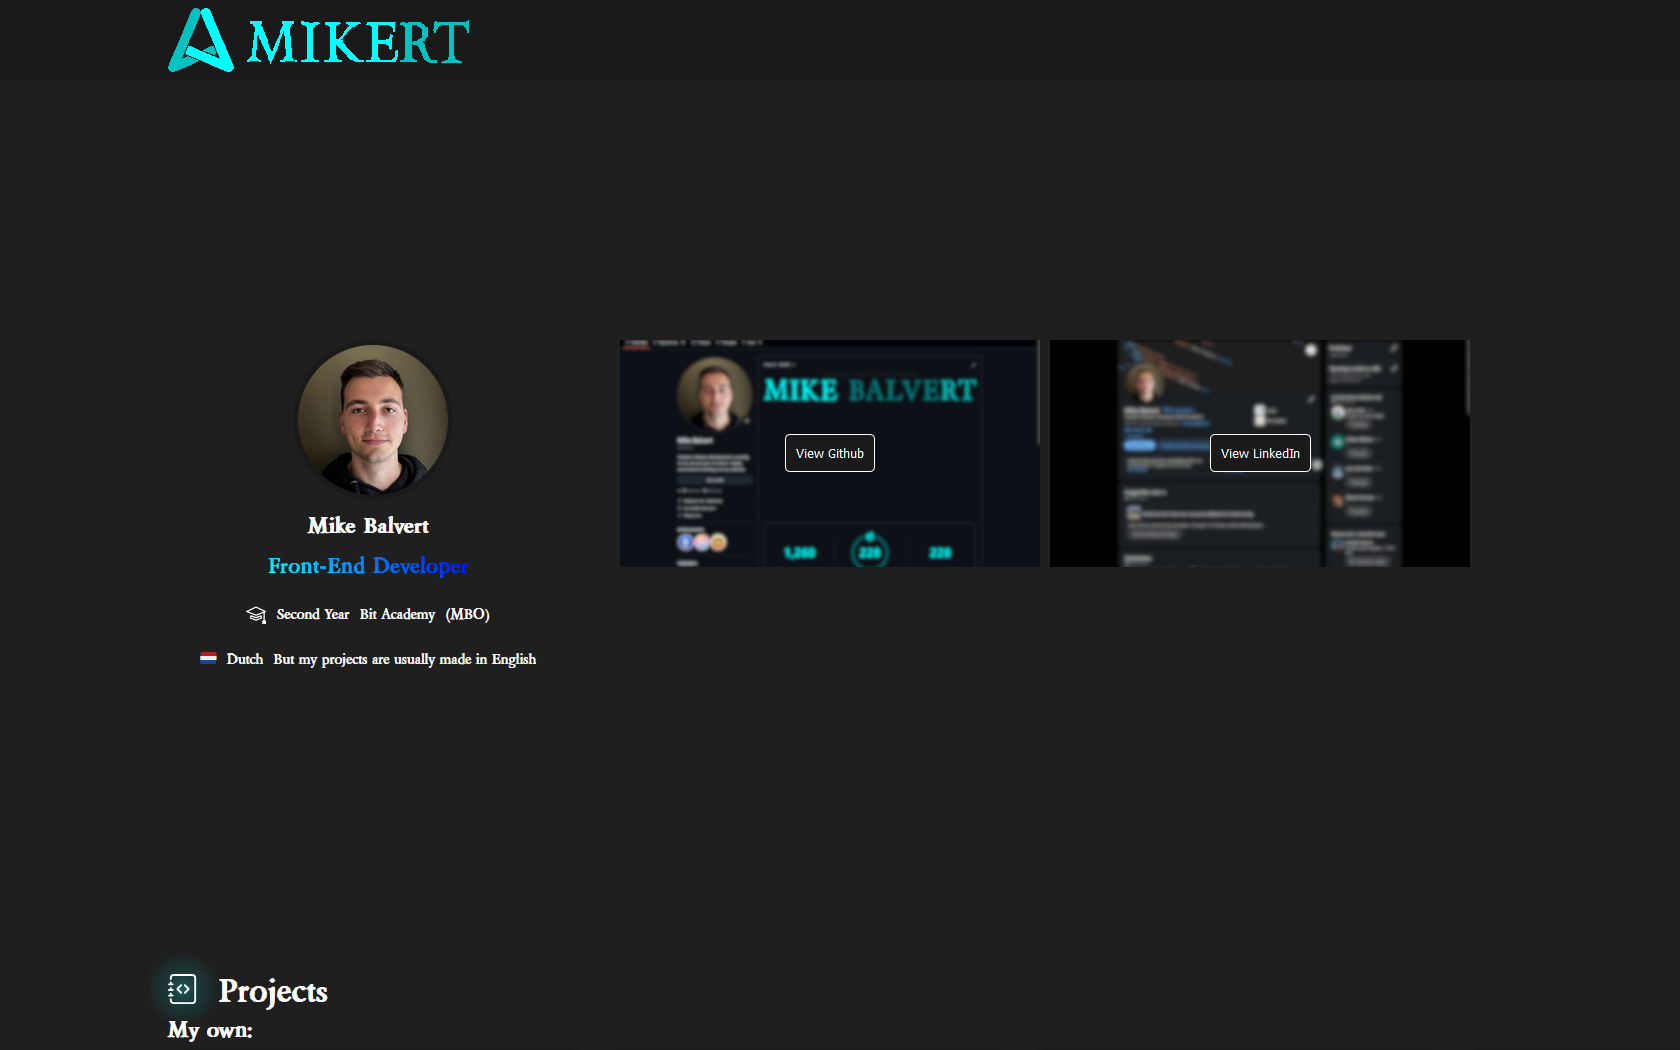
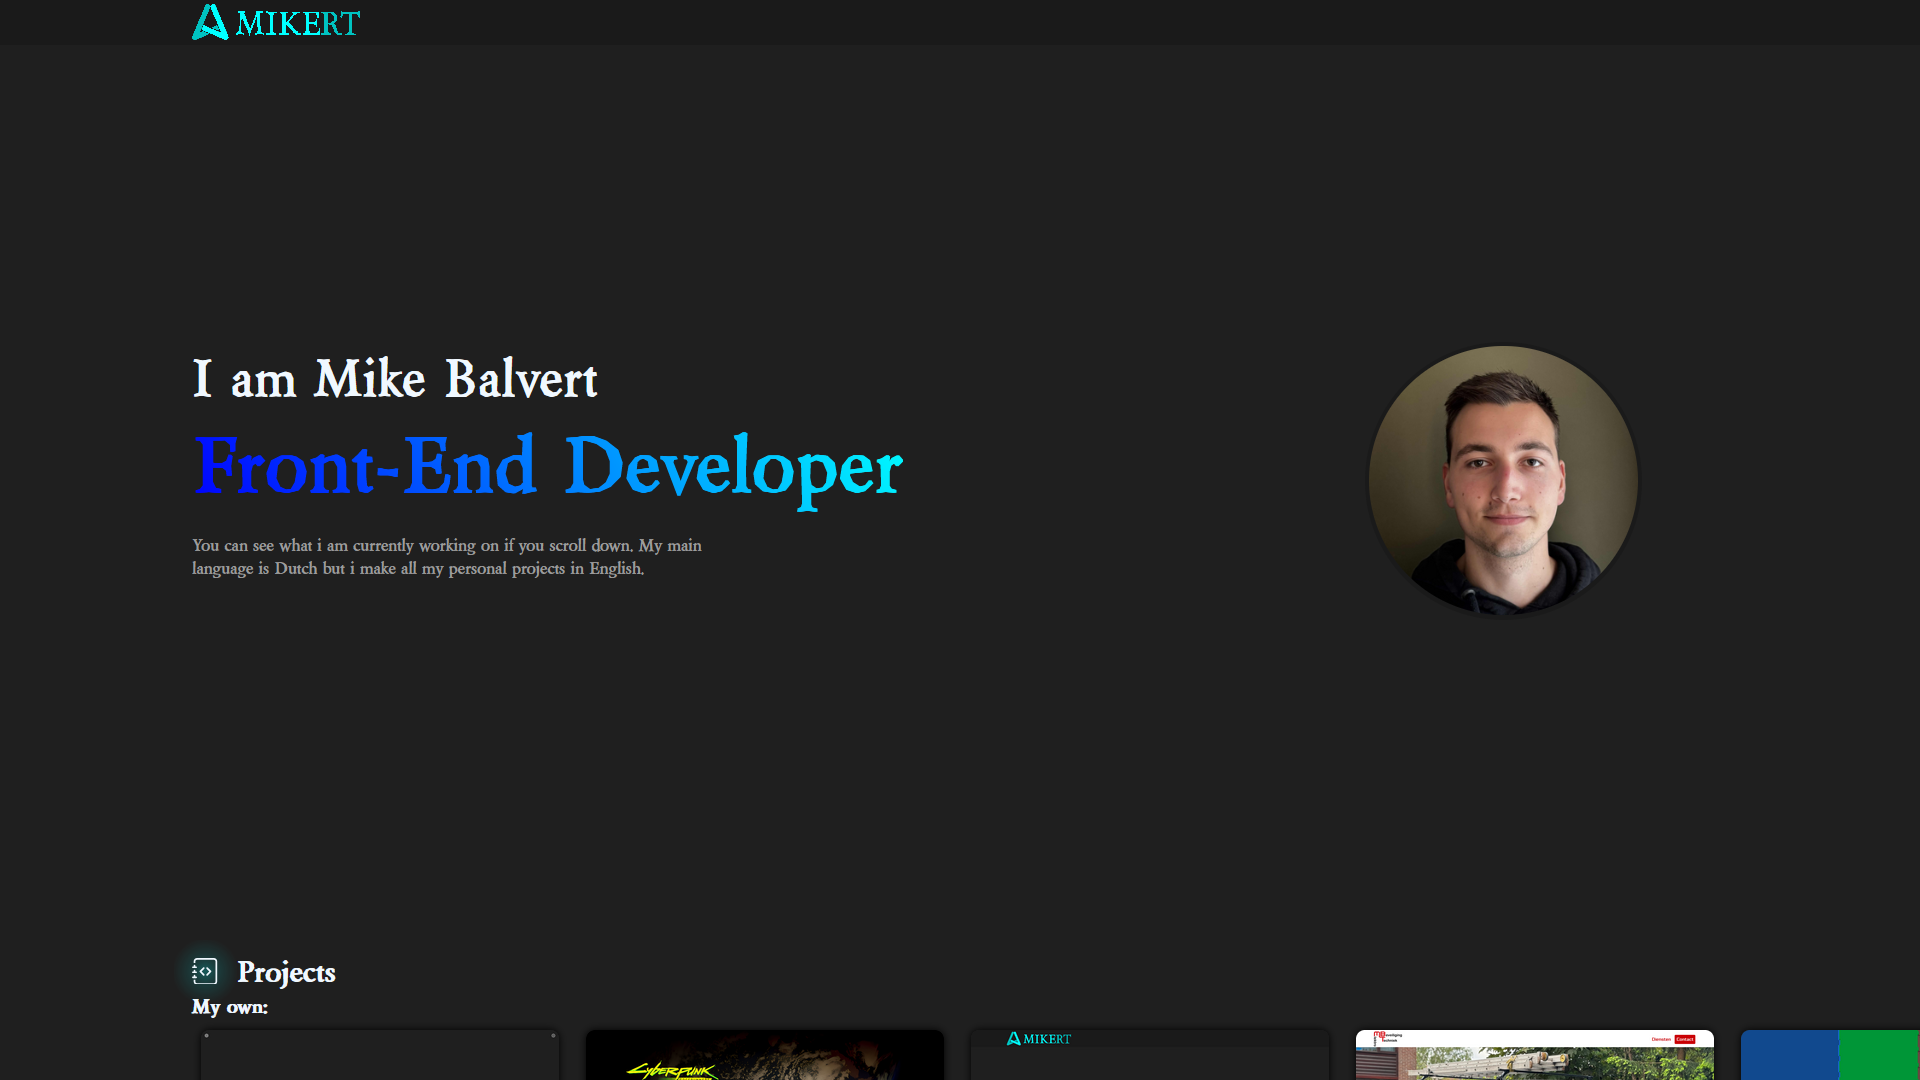
brand new homepage

diff --git a/style.css b/style.css
@@ -344,25 +344,28 @@ embed {
 
 #profile .left {
     display: flex;
-    width: 20%;
+    width: 70%;
     flex-direction: column;
-    justify-content: center;
-    align-items: center;
     gap: 10px;
 }
 
-#profile .middle {
-    display: flex;
-    width: 60%;
-    flex-direction: column;
-    justify-content: center;
-    align-items: center;
-    gap: 10px;
+#profile .left h1 {
+    font-size: 4em;
+}
+
+#profile .left h2 {
+    font-size: 6em;
+}
+
+#profile .left p {
+    font-size: 1.3em;
+    width: 50%;
+    color: rgb(156, 156, 156);
 }
 
 #profile .right {
     display: flex;
-    width: 20%;
+    width: 30%;
     height: 100%;
     flex-direction: column;
     justify-content: center;
@@ -835,8 +838,12 @@ a:hover {
     font-size: 0.8em;
 }
 
+.functionTitleDiv {
+    display: flex;
+}
+
 .functionTitle {
-    background: linear-gradient(43deg, #00ffff 0%, #0000ff 100%);
+    background: linear-gradient(60deg, #0000ff 0%, #00ffff 100%);
     color: transparent;
     -webkit-background-clip: text;
     background-clip: text;
@@ -922,6 +929,18 @@ a:hover {
         top: 50%;
         right: 30px;
     }
+
+@media (max-width: 1500px) {
+    #profile .left h1 {
+        font-size: 3em;
+    }
+    #profile .left h2 {
+        font-size: 4em;
+    }
+    #profile .left p {
+        font-size: 1em;
+    }
+}
     
 @media (max-width: 1033px) {
     #profile {
@@ -939,14 +958,15 @@ a:hover {
         align-items: center;
         gap: 10px;
     }
-    #profile .middle {
-        display: flex;
-        order: 1;
-        width: 100%;
-        flex-direction: column;
-        justify-content: center;
-        align-items: center;
-        gap: 10px;
+    #profile .left h1 {
+        font-size: 2em;
+    }
+    #profile .left h2 {
+        font-size: 3em;
+    }
+    #profile .left p {
+        font-size: 0.8em;
+        width: 70%;
     }
     #profile .right {
         display: flex;
@@ -1016,6 +1036,17 @@ a:hover {
 }
 
 @media (max-width: 500px) {
+
+    #profile .left h1 {
+        font-size: 1.5em;
+    }
+    #profile .left h2 {
+        font-size: 2em;
+    }
+    #profile .left p {
+        font-size: 0.8em;
+        width: 90%;
+    }
     #projects {
         display: flex;
         flex-wrap: wrap;

diff --git a/index.html b/index.html
@@ -21,13 +21,16 @@
         <section id="homepage">
             <div id="profile">
                 <div class="left">
-                </div>
-                <div class="middle d-f ai-c fd-c">
-                    <img src="assets/img/pfp.jpg" class="profile-image" width="170px">
-                    <h1 class="m0">Mike Balvert</h1>
-                    <h2 class="m0 mt6 functionTitle">Front-End Developer</h2>
+                    <div class="d-b">
+                        <h1 class="m0">I am Mike Balvert</h1>
+                        <div class="functionTitleDiv">
+                            <h2 class="m0 mt6 functionTitle">Front-End Developer</h2>
+                        </div>
+                        <p>You can see what i am currently working on if you scroll down. My main language is Dutch but i make all my personal projects in English.</p>
+                    </div>
                 </div>
                 <div class="right">
+                    <img src="assets/img/pfp.jpg" class="profile-image" width="170px">
                 </div>
             </div>
             </section>
